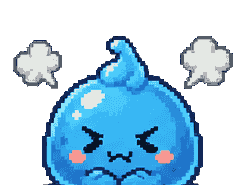
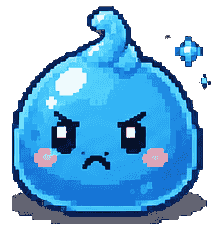
표정 5속성 x 17종 = 85장 완성
- 속성별 시트 5장 임포트 (물/금/불/목/토)
- 시트마다 다른 배치 대응: 라벨 상하 위치, 번호 배지, 마지막 줄 정렬
  (가운데 정렬=목, 전체 폭 5등분=화)
- 전 표정 공통 캔버스 바닥-중앙 정렬, 팔레트 64색 압축 (총 755KB)
- ART_EXPRESSIONS 전 속성 17종 개방

diff --git a/src/lib/slimeArt.ts b/src/lib/slimeArt.ts
@@ -39,19 +39,21 @@ const STAGE_SCALE: Record<Exclude<SlimeStage, "egg">, number> = {
 export const ART_RATIO = 290 / 332;
 
 /**
- * 속성별로 실제 파일이 있는 표정만 등록한다.
- * 표정 이미지를 추가하면 여기에 이름을 넣어야 렌더러가 쓴다.
+ * 속성별로 실제 파일이 있는 표정.
+ * 2026-08-04 속성별 시트 5장을 받아 5속성 × 17표정 = 85장이 모두 채워졌다.
  * (없는 표정을 요청하면 기본 표정으로 자동 폴백)
- *
- * 2026-08-04 1차 시트: 17종이 5속성에 나뉘어 들어왔다. 속성마다 3~4종씩.
- * 속성별 전체 세트를 받으면 여기만 채우면 된다.
  */
+const ALL_17: ArtExpression[] = [
+  "laugh", "cry", "sleep", "yawn", "wink", "surprised", "sing", "proud", "tired",
+  "teary", "pout", "think", "fired", "dizzy", "eating", "smirk", "halo",
+];
+
 export const ART_EXPRESSIONS: Record<SlimeAttr, ArtExpression[]> = {
-  water: ["laugh", "surprised", "pout", "smirk"],
-  gold: ["cry", "sing", "think", "halo"],
-  fire: ["sleep", "proud", "fired"],
-  wood: ["yawn", "tired", "dizzy"],
-  earth: ["wink", "teary", "eating"],
+  water: ALL_17,
+  gold: ALL_17,
+  fire: ALL_17,
+  wood: ALL_17,
+  earth: ALL_17,
 };
 
 export function hasArtExpression(attr: SlimeAttr, expression: ArtExpression): boolean {
